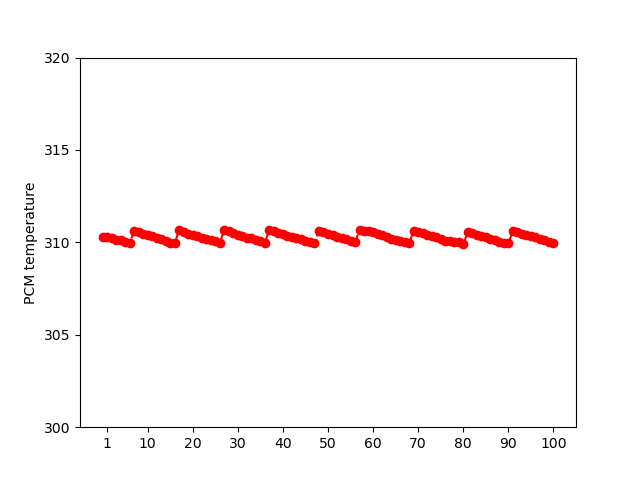
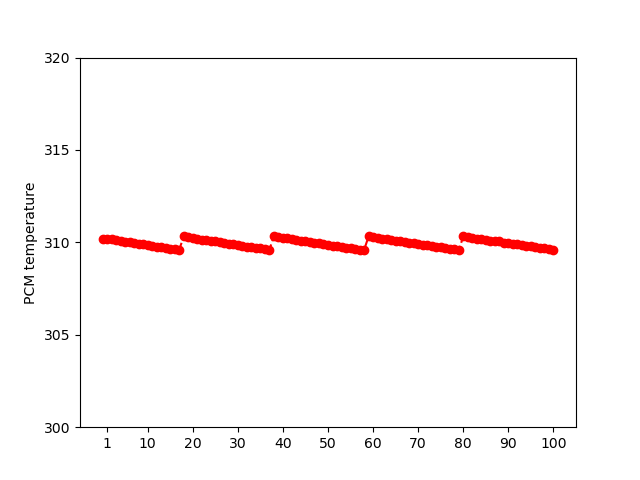
DO WHILE loop worksss

Changed region(s): [[0.1562, 0.4688, 0.875, 0.5312]]

diff --git a/phasechange2025test6.py b/phasechange2025test6.py
@@ -10,7 +10,7 @@ from numpy import linalg as la
 ##### time advancement #####
 N = 100;
 kk = 1 # Iterative steps
-dt = 60. #step in seg
+dt = 30. #step in seg
 
 
 ##### Fluid Properties#######
@@ -129,6 +129,6 @@ while True:
             #plt.show()
     
     kk = kk + 1
-    if not (la.norm(T)-la.norm(TT))<20.:
+    if (la.norm(T)-la.norm(TT))<1.:
        break
 
